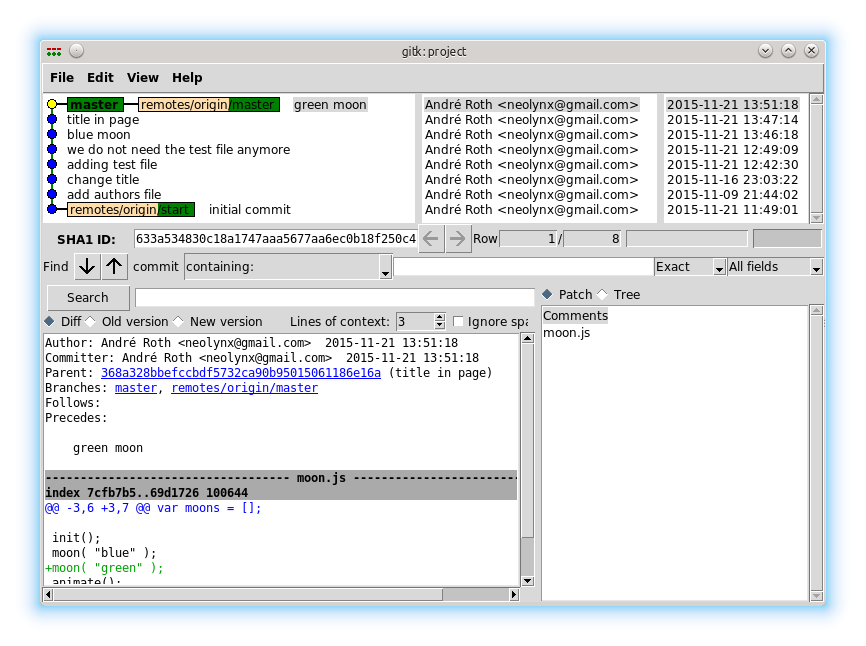
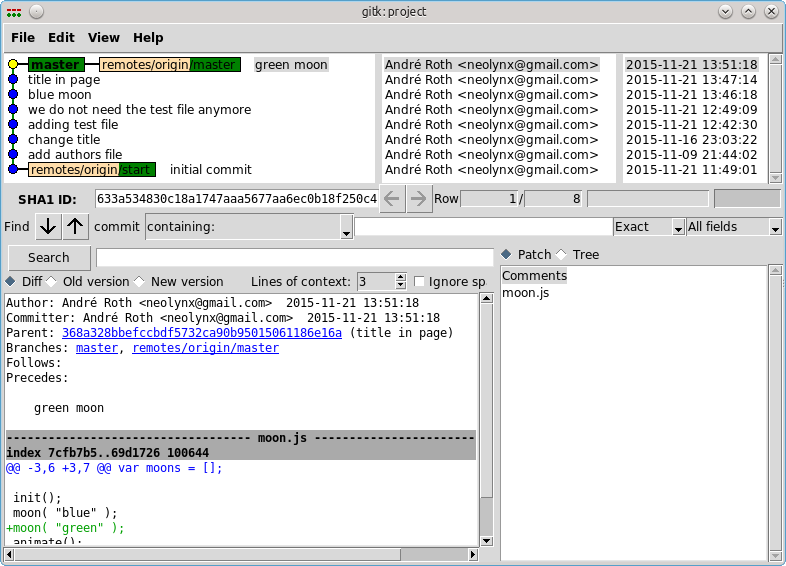
gitk image without highlight

diff --git a/sections/making-a-change.tex b/sections/making-a-change.tex
@@ -67,7 +67,9 @@ $ (*\textcolor[HTML]{0000AA}{git log --oneline}*)
 \begin{frame}[fragile]
   \subslidetitle
   The program \cmd{gitk} allows to display and control git commits in a GUI:
-  \centerline{\includegraphics[width=10.5cm]{../gitk.png}}
+  \\
+  \vspace{1em}
+  \centerline{\includegraphics[width=9cm]{../gitk.png}}
 \end{frame}
 
 \subsection{A commit is a change}
